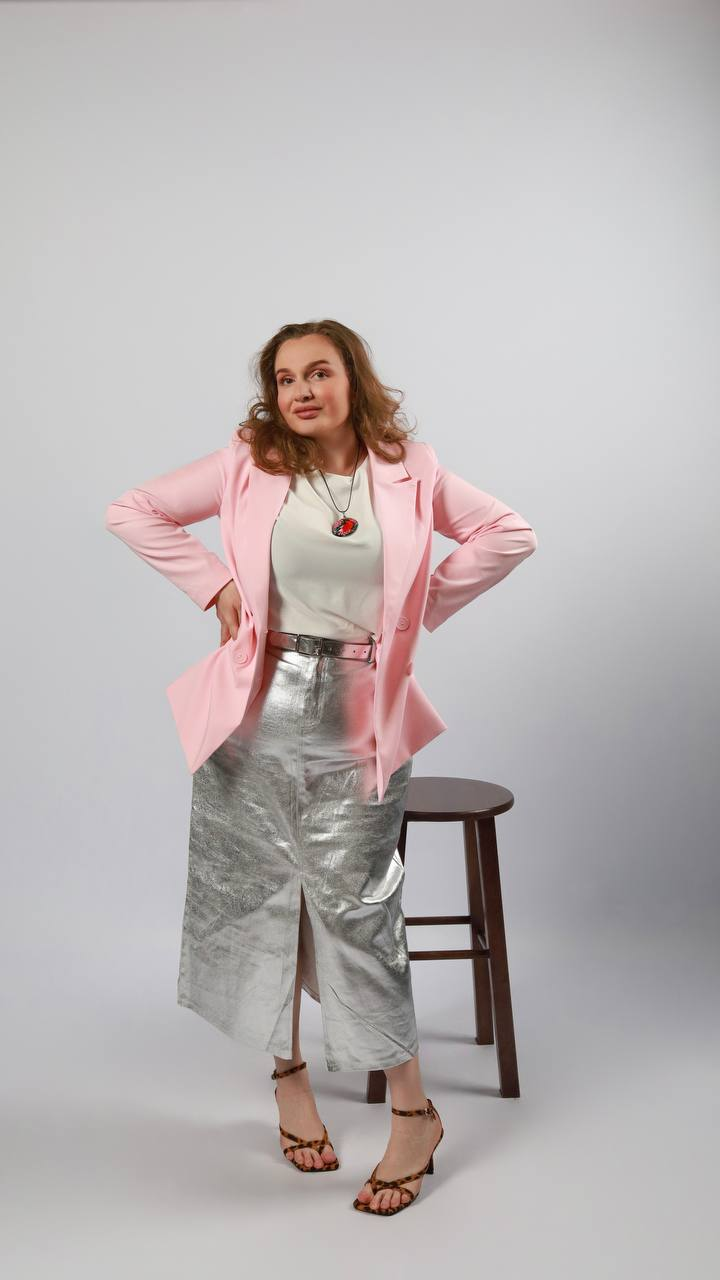
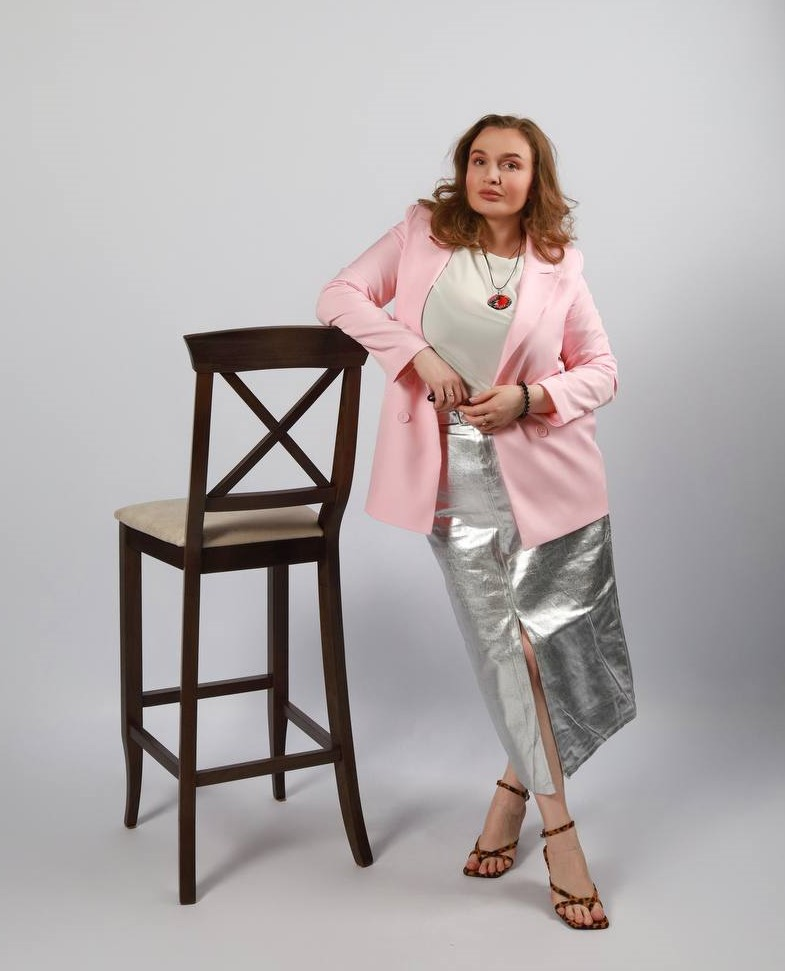
Заменил фото

diff --git a/otklik_studio_bot/handlers/user_handlers.py b/otklik_studio_bot/handlers/user_handlers.py
@@ -18,7 +18,7 @@ async def process_start_command(message: Message):
     project_dir = os.path.abspath(
         os.path.join(current_dir, '..'))  # Подъем на уровень выше (в директорию otklik_studio_bot)
     photo_path = os.path.join(project_dir, 'resources',
-                              'photo_start_old.png')  # Формирование пути к файлу относительно корневой директории проекта
+                              'photo_start.png')  # Формирование пути к файлу относительно корневой директории проекта
 
     await message.answer_photo(
         photo=FSInputFile(photo_path),
